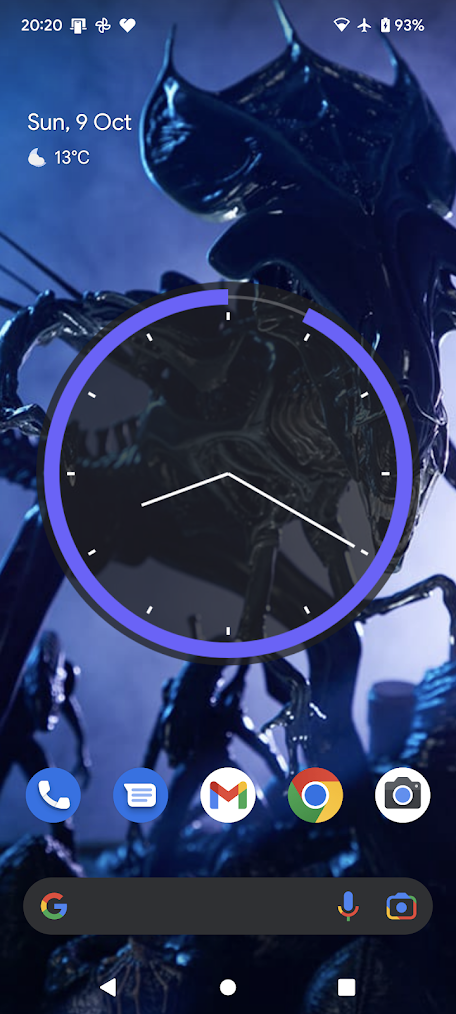
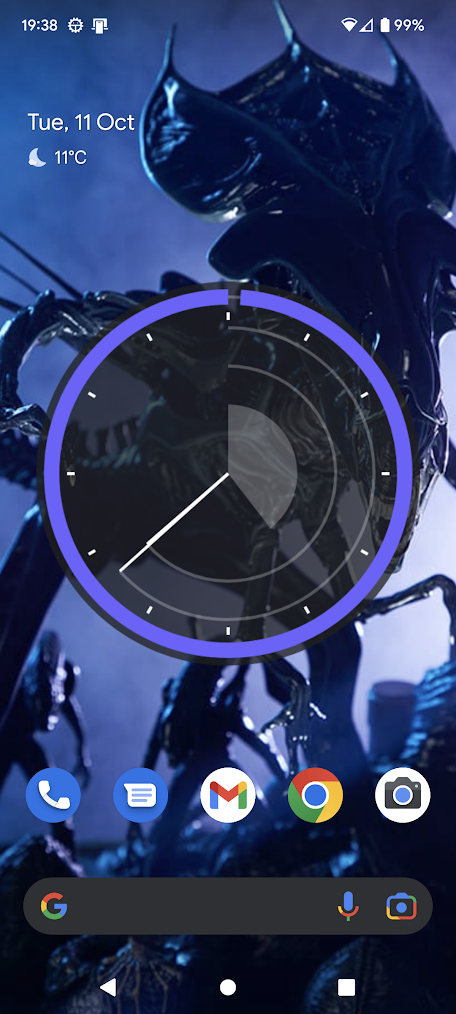
WIP

diff --git a/src/app/src/main/java/com/outsidecontextproblem/batteryclock/BatteryClockWidget.java b/src/app/src/main/java/com/outsidecontextproblem/batteryclock/BatteryClockWidget.java
@@ -30,6 +30,7 @@ public class BatteryClockWidget extends AppWidgetProvider {
     private final Paint _backgroundPaint;
     private final Paint _minuteTrailPaint;
     private final Paint _hourTrailPaint;
+    private final Paint _dayArcPaint;
 
     private DisplayManager _displayManager;
 
@@ -74,6 +75,9 @@ public class BatteryClockWidget extends AppWidgetProvider {
         _hourTrailPaint.setARGB(64, 255, 255, 255);
         _hourTrailPaint.setStyle(Paint.Style.STROKE);
         _hourTrailPaint.setStrokeWidth(Constants.BezelOutline);
+
+        _dayArcPaint = new Paint(Paint.ANTI_ALIAS_FLAG);
+        _dayArcPaint.setARGB(64, 255, 255, 255);
     }
 
     private void updateAppWidget(Context context, AppWidgetManager appWidgetManager, int appWidgetId) {
@@ -198,6 +202,16 @@ public class BatteryClockWidget extends AppWidgetProvider {
             canvas.drawLine((float) (Constants.BitmapCenter + Math.cos(dotRadians) * Constants.TickStart), (float) (Constants.BitmapCenter + Math.sin(dotRadians) * Constants.TickStart),
                     (float) (Constants.BitmapCenter + Math.cos(dotRadians) * Constants.TickEnd), (float) (Constants.BitmapCenter + Math.sin(dotRadians) * Constants.TickEnd), _dotPaint);
         }
+
+        int dayArcOffset = Constants.BitmapCenter - Constants.DayArcRadius;
+
+        float degreesForDay = 360 / 7;
+
+        float dayDegrees = (((Calendar.getInstance().get(Calendar.DAY_OF_WEEK) - 1) + 7) % 7) * degreesForDay;
+
+        dayDegrees += (degreesForDay / 24) * Calendar.getInstance().get(Calendar.HOUR_OF_DAY);
+
+        canvas.drawArc(dayArcOffset, dayArcOffset, Constants.BitmapDimensions - dayArcOffset, Constants.BitmapDimensions - dayArcOffset, 270, dayDegrees, true, _dayArcPaint);
 
         float minuteDegrees = Calendar.getInstance().get(Calendar.MINUTE) * 6;
 

diff --git a/src/app/src/main/java/com/outsidecontextproblem/batteryclock/Constants.java b/src/app/src/main/java/com/outsidecontextproblem/batteryclock/Constants.java
@@ -6,8 +6,9 @@ public class Constants {
     public static int BackgroundRadius = 250;
     public static int FrameRadius = 230;
     public static int BatteryIndicatorRadius = 230;
-    public static int HourHandLength = 120;
+    public static int HourHandLength = 140;
     public static int MinuteHandLength = 190;
+    public static int DayArcRadius = 90;
     public static int TickStart = 200;
     public static int TickEnd = 210;
 
